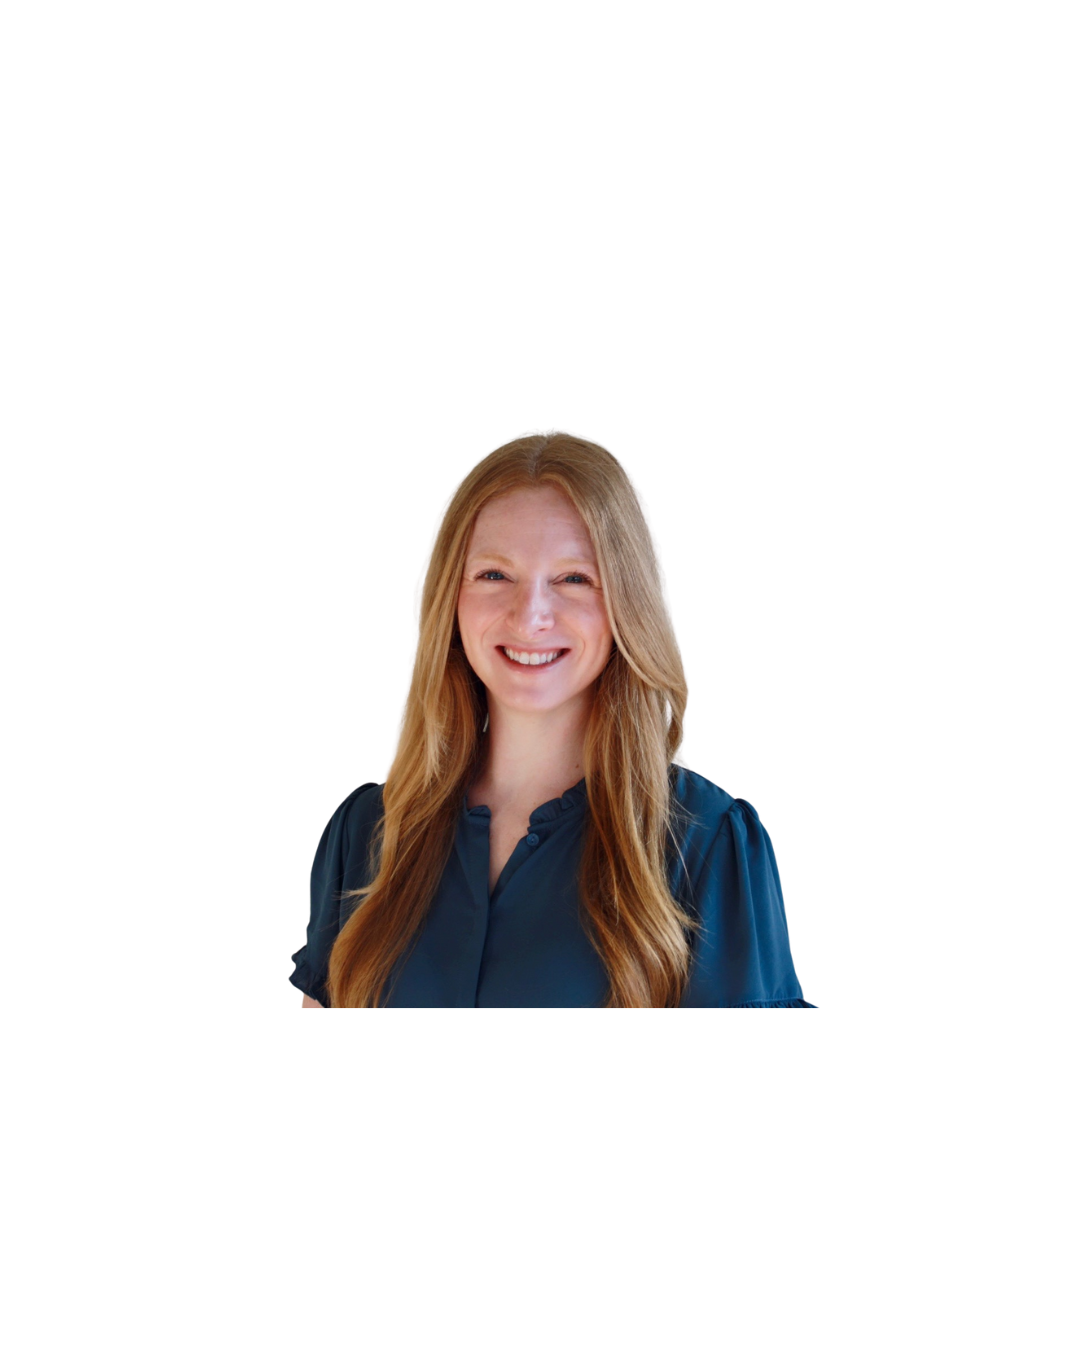
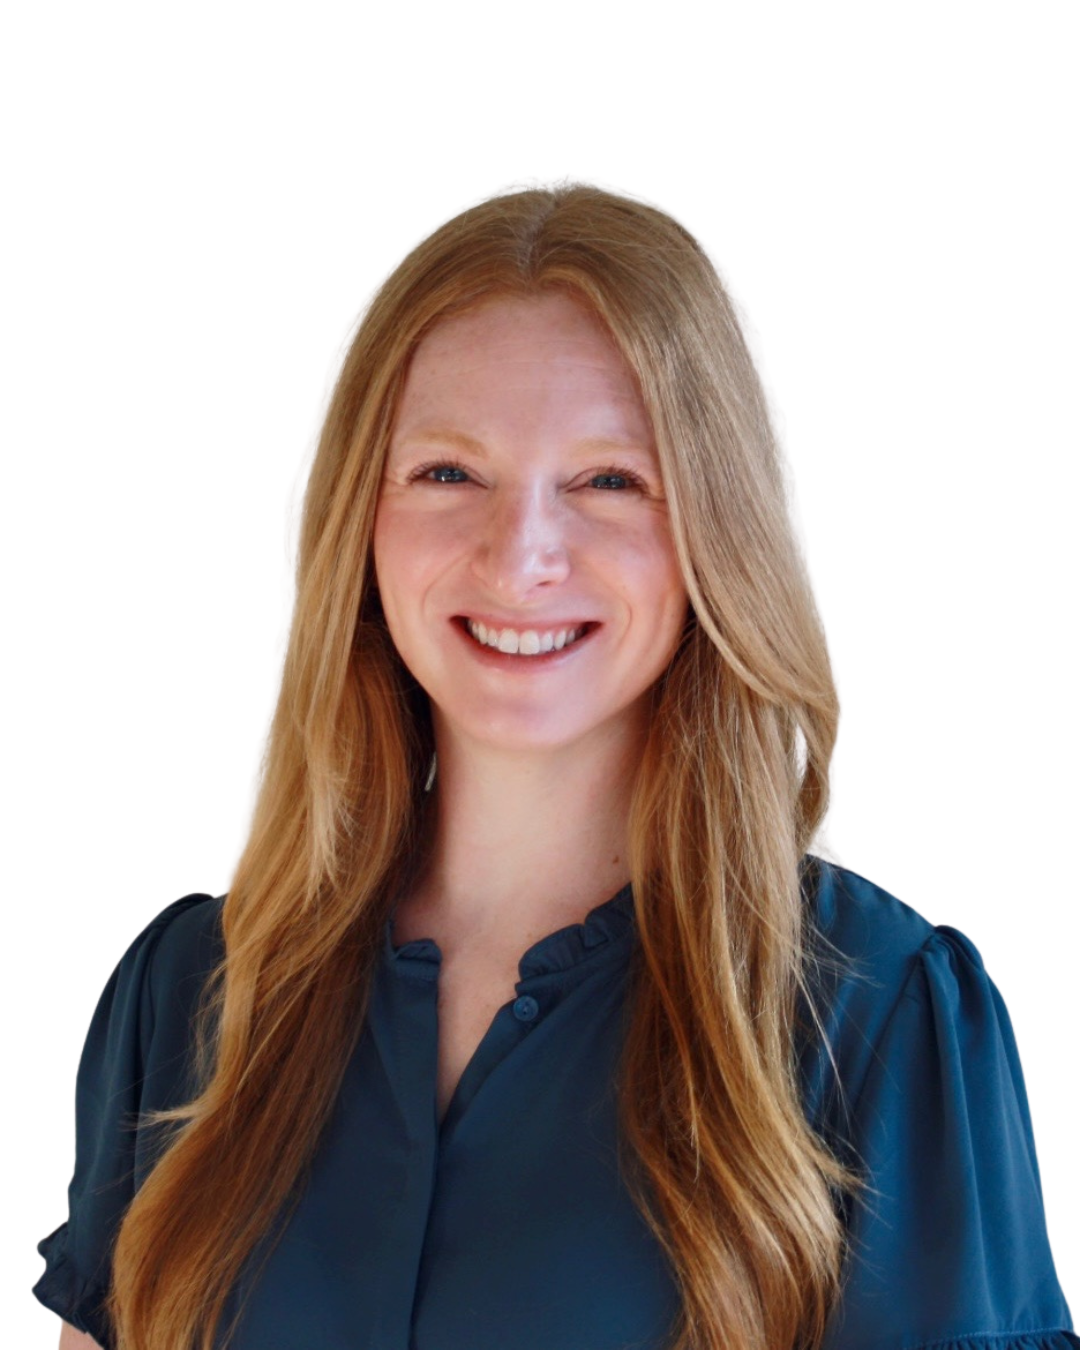
css changes

diff --git a/docs/custom.css b/docs/custom.css
@@ -53,7 +53,7 @@ ul li {
 .level3 {
   margin: 40px 0;             /* space above and below the section */
   padding: 20px;              /* inner padding */
-  background-color: #f9f9f9;  /* subtle background to separate section */
+  background-color:#eeeeee;  /* subtle background to separate section */
   border-radius: 10px;        /* rounded corners */
 }
 
